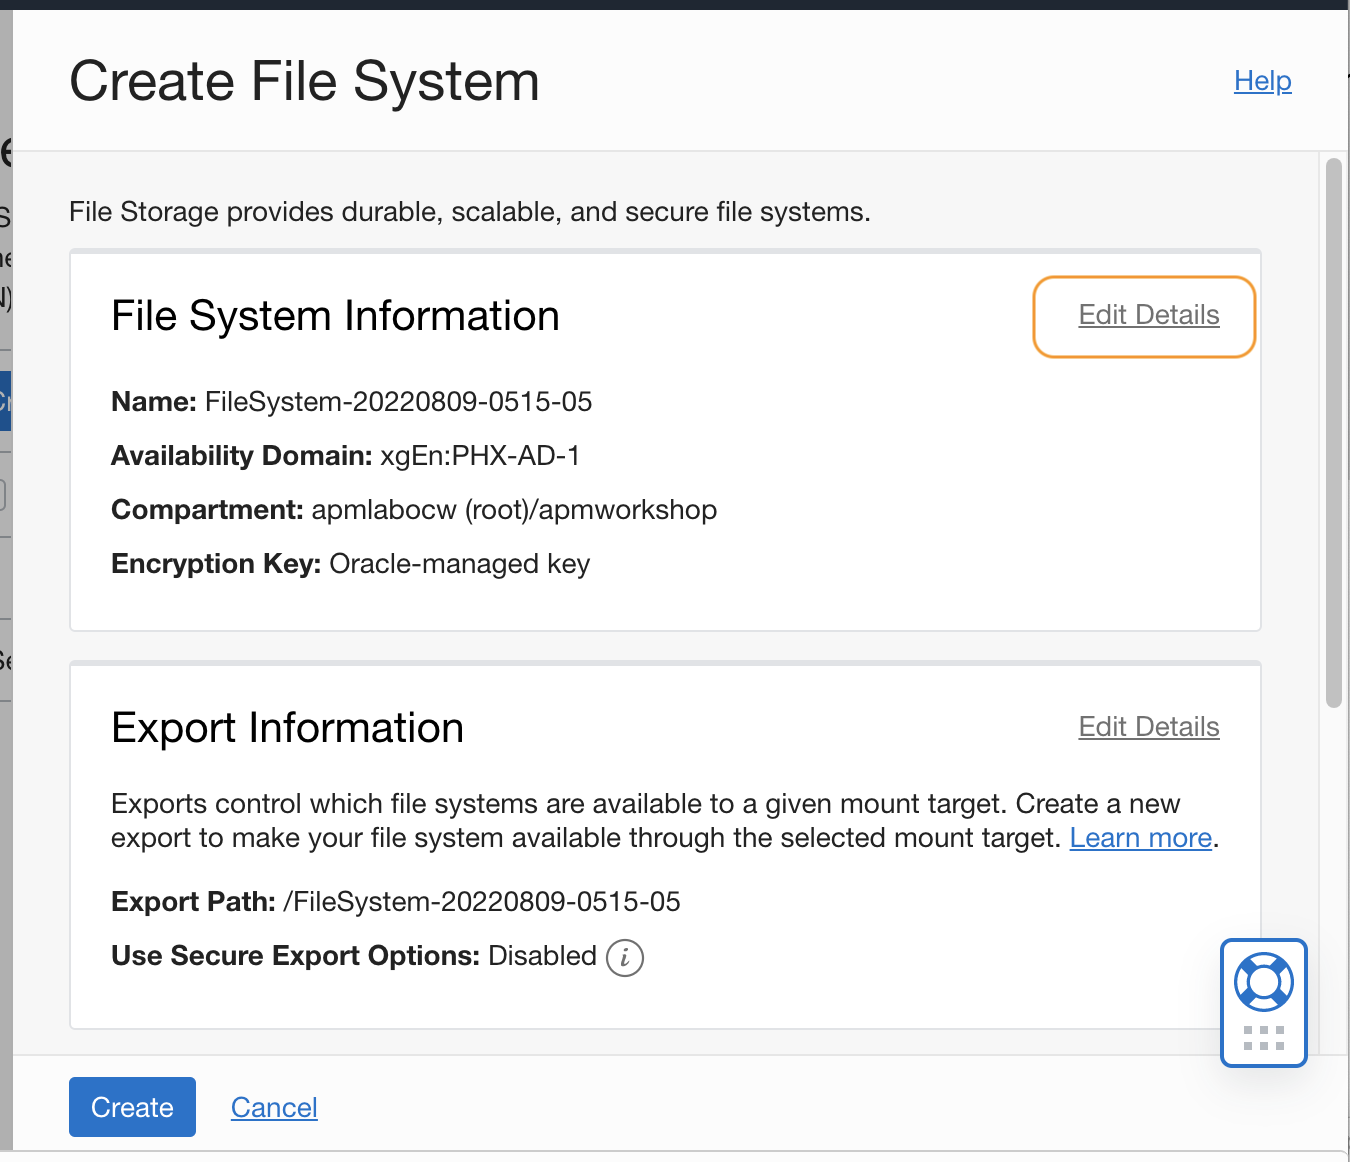
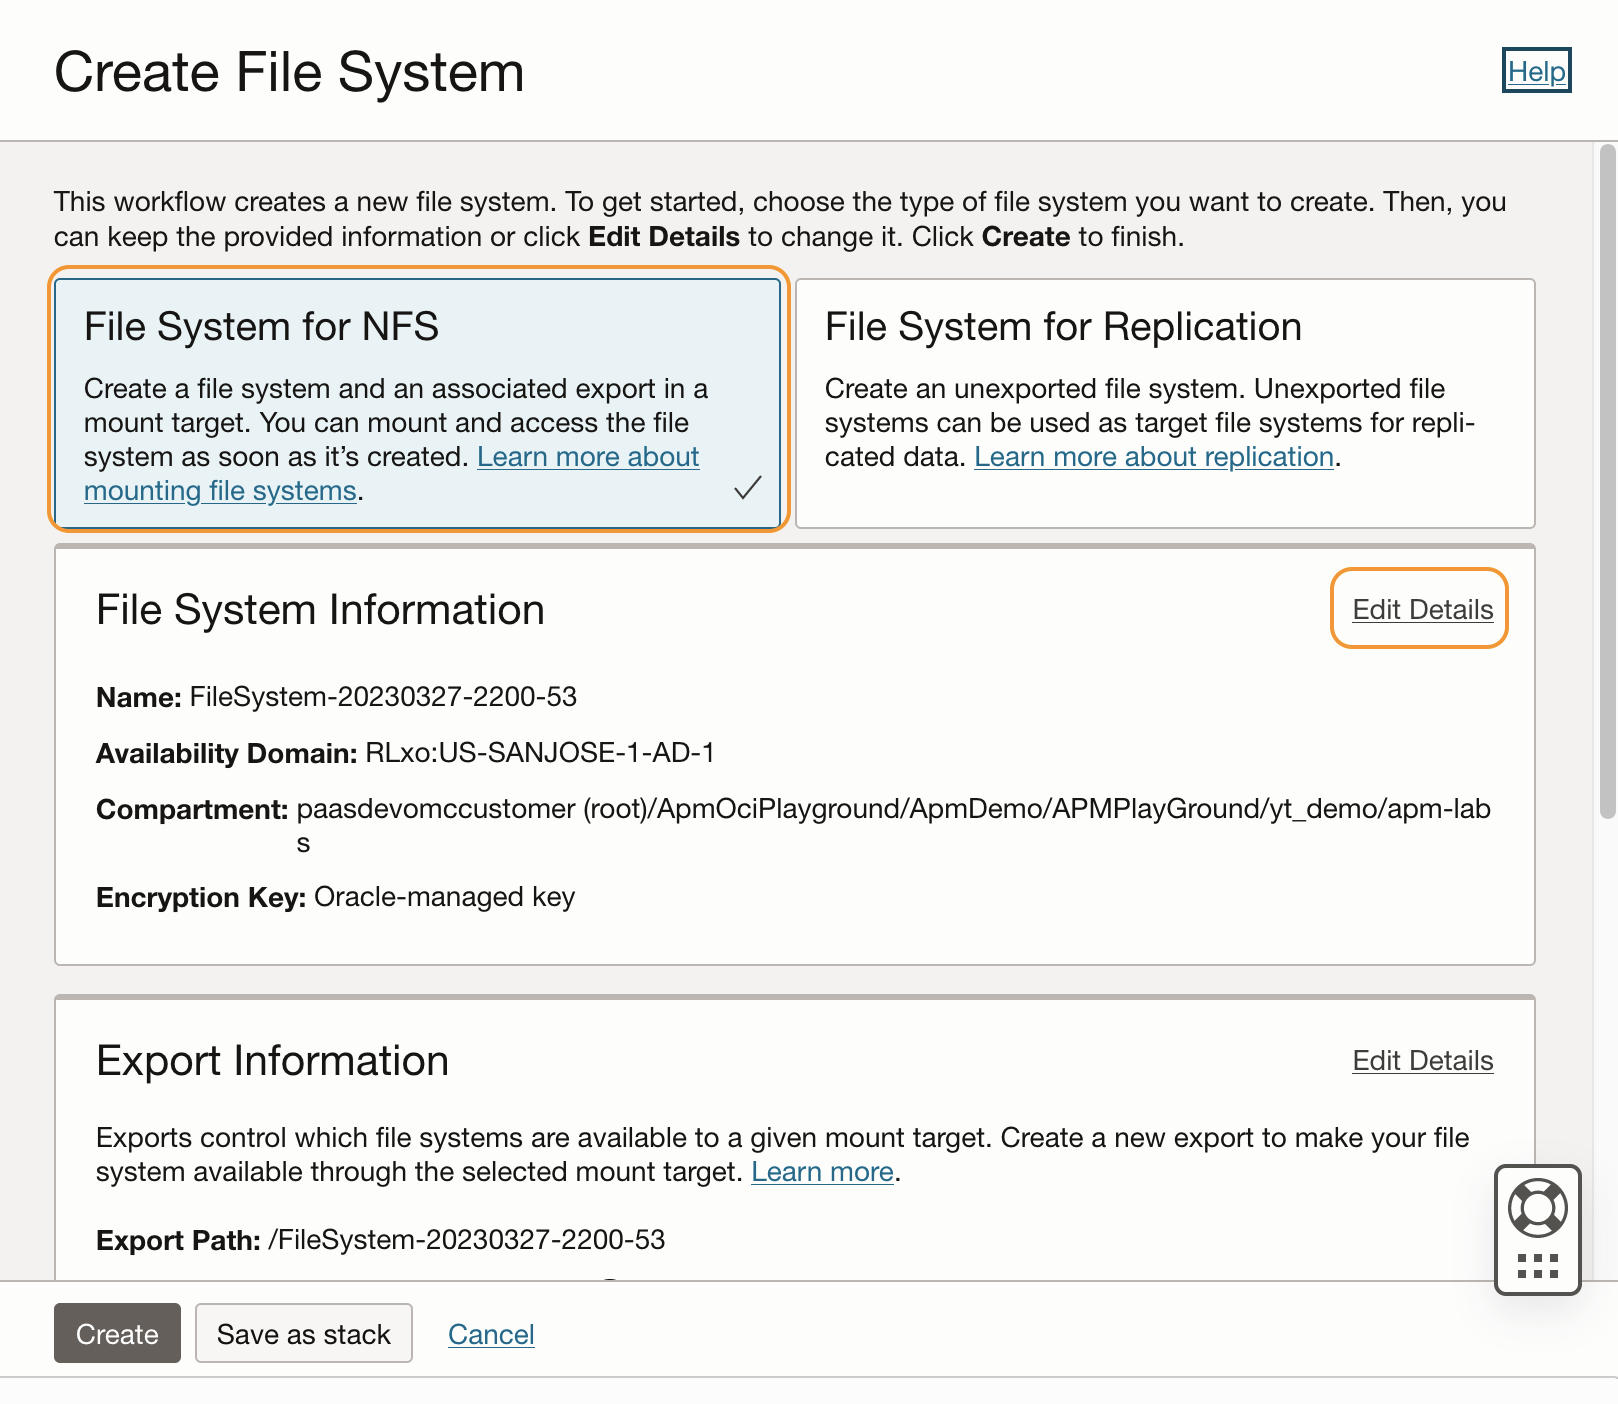
Quarterly QA WSM ID: 9104

Changed region(s): [[0.0, 0.0, 1.0, 1.0], [0.8089, 0.6196, 0.9022, 0.6506], [0.28, 0.9294, 0.3422, 0.9604]]

diff --git a/oci-apm-weblogic/00-introduction/introduction.md b/oci-apm-weblogic/00-introduction/introduction.md
@@ -36,13 +36,11 @@ In this workshop, you will:
 ### Prerequisites
 
 
-* An Oracle Free Tier with a 30-day free trial or Paid Cloud Account - Please view this workshop's LiveLabs landing page to see which environments are supported. 
-
-
-If you are running the workshop in a Paid Cloud Account, ensure you have the permissions below:
+* A paid Cloud Account. Please ensure you have the permissions below:
 * Oracle Cloud resources and permissions to create a file system. See **[Creating File Systems](https://docs.oracle.com/en-us/iaas/Content/File/Tasks/creatingfilesystems.htm)** and **[Service Limits](https://docs.oracle.com/en-us/iaas/Content/General/Concepts/servicelimits.htm#top)** in the Oracle Cloud documentation.
 *	Oracle Cloud Account Administrator role or manage apm-domains permission in the target compartment. See **[Perform Oracle Cloud Infrastructure Prerequisites (APM)](https://docs.oracle.com/en-us/iaas/application-performance-monitoring/doc/perform-oracle-cloud-infrastructure-prerequisite-tasks.html)** in the Oracle Cloud documentation.
 
+> **Note:** ***This workshop cannot run with a Free Trial account.***
 
 ### More APM Workshops
 
@@ -56,4 +54,4 @@ If you are running the workshop in a Paid Cloud Account, ensure you have the per
 - **Contributors** - Steven Lemme, Senior Principal Product Manager,  
 Anand Prabhu, Sr. Member of Technical Staff,  
 Avi Huber, Vice President, Product Management
-- **Last Updated By/Date** - Yutaka Takatsu, December, 2022
+- **Last Updated By/Date** - Yutaka Takatsu, March, 2023

diff --git a/oci-apm-weblogic/05-configure-apm-agent/configure-apm-agent.md b/oci-apm-weblogic/05-configure-apm-agent/configure-apm-agent.md
@@ -50,6 +50,14 @@ Estimated time: 10 minutes
 
     E.g., cd ~/; wget https://repo1.maven.org/maven2/com/oracle/apm/agent/java/apm-java-agent-installer/1.8.3326/apm-java-agent-installer-1.8.3326.jar
 
+    >**Note:** If you received **No such file or directory** error, it may be a new version of the agent is being updated. Please run the following URL on a browser and find the Agent version available at the Maven central.
+    ``` bash
+    <copy>
+    https://repo1.maven.org/maven2/com/oracle/apm/agent/java/apm-java-agent-installer
+    </copy>
+    ```
+       ![Oracle Cloud console, Cloud Shell](images/2-1-mavencentral.png " ")
+
 2.	Hit the enter key and verify the message to ensure the successful file transfer.
 
    ![Oracle Cloud console, Cloud Shell](images/4-1-6-cloudshell.png " ")
@@ -232,4 +240,4 @@ You may now **proceed to the next lab**.
 - **Contributors** - Steven Lemme, Senior Principal Product Manager,  
 Anand Prabhu, Sr. Member of Technical Staff,  
 Avi Huber, Vice President, Product Management
-* **Last Updated By/Date** - Yutaka Takatsu, December, 2022
+* **Last Updated By/Date** - Yutaka Takatsu, March, 2023

diff --git a/oci-apm-weblogic/02-create-domain/create-domain.md b/oci-apm-weblogic/02-create-domain/create-domain.md
@@ -14,7 +14,6 @@ Estimated time: 10 minutes
 
 ### Prerequisites
 
-* This lab requires an [Oracle Cloud account](https://www.oracle.com/cloud/free/). You may use your own cloud account, or a Free tier account, a cloud account that you obtained through a trial.
 * To create an APM domain, you will need an Oracle Cloud Account Administrator role or manage apm-domains permission in the target compartment. For more details, refer to the OCI Documentation, [Create an APM Domain](https://docs.oracle.com/en-us/iaas/application-performance-monitoring/doc/create-apm-domain.html).
 
 ## Task1: Create an APM domain
@@ -66,4 +65,4 @@ You may now **proceed to the next lab**.
 Steven Lemme, Senior Principal Product Manager,  
 Anand Prabhu, Sr. Member of Technical Staff,  
 Avi Huber, Vice President, Product Management
-* **Last Updated By/Date** - Yutaka Takatsu, December 2022
+* **Last Updated By/Date** - Yutaka Takatsu, March 2023

diff --git a/oci-apm-weblogic/04-create-file-system/create-file-system.md b/oci-apm-weblogic/04-create-file-system/create-file-system.md
@@ -36,7 +36,7 @@ Estimated time: 15 minutes
 
    ![Oracle Cloud console, file systems](images/3-1-2-filesystem.png " ")
 
-5. On the **Create File System** page, in the **File System Information** section, click **Edit Details**.
+5. On the **Create File System** page, ensure the **File System for NFS** is selected. In the **File System Information** section, click **Edit Details**.
 
    ![Oracle Cloud console, file systems](images/3-1-3-filesystem.png " ")
 
@@ -312,4 +312,4 @@ You may now **proceed to the next lab**.
 - **Contributors** - Steven Lemme, Senior Principal Product Manager,   
 Anand Prabhu, Sr. Member of Technical Staff,  
 Avi Huber, Vice President, Product Management
-* **Last Updated By/Date** - Yutaka Takatsu, December 2022
+* **Last Updated By/Date** - Yutaka Takatsu, March 2023
